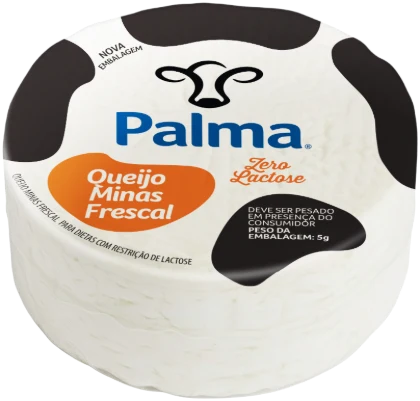
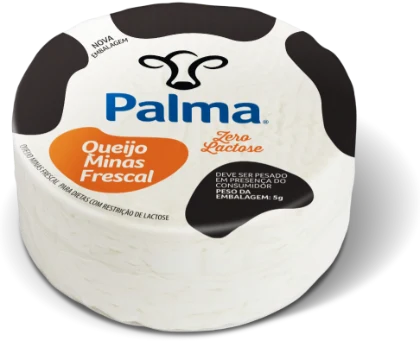
Frescal: as versoes com sombra

diff --git a/produtos.html b/produtos.html
@@ -223,7 +223,7 @@
               <div class="cat__palco">
                 <img src="assets/produtos/queijo-minas-frescal-420.webp"
                      srcset="assets/produtos/queijo-minas-frescal-420.webp 420w, assets/produtos/queijo-minas-frescal-808.webp 808w"
-                     sizes="(max-width: 639px) 40vw, 15vw" width="808" height="772" loading="lazy" decoding="async"
+                     sizes="(max-width: 639px) 40vw, 15vw" width="808" height="656" loading="lazy" decoding="async"
                      style="--e: 62" alt="Peça redonda de Queijo Minas Frescal Palma tradicional, embalada, com selo azul">
               </div>
               <h3 class="cat__nome">Queijo Minas Frescal</h3>
@@ -238,7 +238,7 @@
               <div class="cat__palco">
                 <img src="assets/produtos/queijo-minas-frescal-light-420.webp"
                      srcset="assets/produtos/queijo-minas-frescal-light-420.webp 420w, assets/produtos/queijo-minas-frescal-light-808.webp 808w"
-                     sizes="(max-width: 639px) 40vw, 15vw" width="808" height="772" loading="lazy" decoding="async"
+                     sizes="(max-width: 639px) 40vw, 15vw" width="808" height="656" loading="lazy" decoding="async"
                      style="--e: 62" alt="Peça redonda de Queijo Minas Frescal Palma light, embalada, com selo azul-claro">
               </div>
               <h3 class="cat__nome">Queijo Minas Frescal</h3>
@@ -253,7 +253,7 @@
               <div class="cat__palco">
                 <img src="assets/produtos/queijo-minas-frescal-zero-420.webp"
                      srcset="assets/produtos/queijo-minas-frescal-zero-420.webp 420w, assets/produtos/queijo-minas-frescal-zero-808.webp 808w"
-                     sizes="(max-width: 639px) 40vw, 15vw" width="808" height="772" loading="lazy" decoding="async"
+                     sizes="(max-width: 639px) 40vw, 15vw" width="808" height="656" loading="lazy" decoding="async"
                      style="--e: 62" alt="Peça redonda de Queijo Minas Frescal Palma zero lactose, embalada, com selo laranja">
               </div>
               <h3 class="cat__nome">Queijo Minas Frescal</h3>

diff --git a/index.html b/index.html
@@ -331,7 +331,7 @@
             <li class="produtos__item" style="--h:11; --hm:27">
               <figure class="produtos__peca">
                 <img src="assets/produtos/queijo-minas-frescal-420.webp" srcset="assets/produtos/queijo-minas-frescal-420.webp 420w, assets/produtos/queijo-minas-frescal-808.webp 808w"
-                     sizes="(max-width: 639px) 43vw, 15vw" width="808" height="772" loading="lazy" decoding="async" alt="">
+                     sizes="(max-width: 639px) 43vw, 15vw" width="808" height="656" loading="lazy" decoding="async" alt="">
                 <figcaption class="produtos__nome">Queijo Minas Frescal</figcaption>
               </figure>
             </li>
